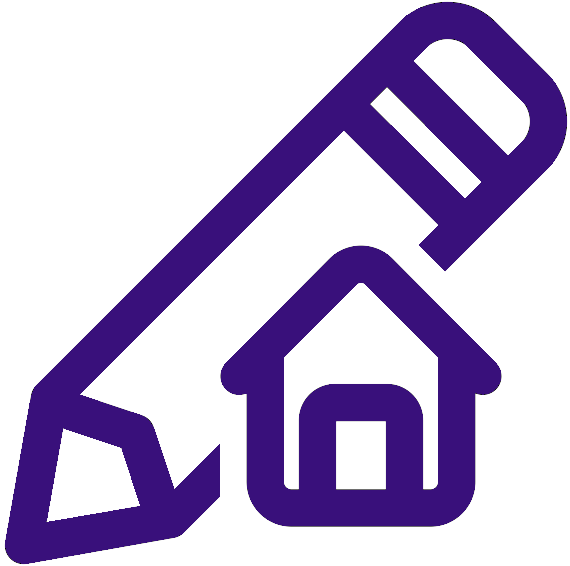
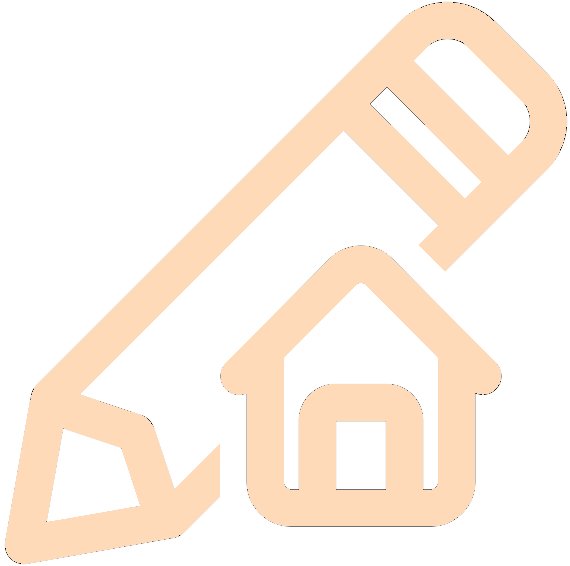
colours changed

diff --git a/style.css b/style.css
@@ -14,7 +14,7 @@ body {
     color: rgb(255, 255, 255);
 }
 
-/*MAIN Page*/
+/*INDEX Page*/
     .MainContainer {
         
     }
@@ -118,7 +118,7 @@ body {
             flex-direction: column;
             top: 0;
             height: 13rem;
-            background: rgba(165, 119, 89, 0.977);
+            background: rgba(74, 74, 74, 0.922);
             box-shadow: 0 1em 1em rgba(30, 30, 30, 0.9);
             z-index: 1;
         }
@@ -143,7 +143,8 @@ body {
                     font-size: 1rem;
                     font-weight: 900;
                     max-width: 210px;
-                    color: rgb(57, 16, 123);
+                    color: peachpuff;
+                    
                 }
                 .NavLeftTitleTwo {
                     display: flex;
@@ -180,18 +181,19 @@ body {
                 right: 0;
                 bottom: 0;
                 left: 0;
-                height: calc(100vh - 16.5rem);
-                background: rgba(165, 120, 89, 0.9);
-                padding: 1rem 0;
+                height: calc(100vh - 159px);
+                background: rgba(107, 107, 107, 0.909);
+                padding: 1rem 0 0 0;
+                margin: 0;
                 overflow-y: auto;
             }
-            @media (min-width: 400px) { .NavRight { margin-top: -4rem;} }
+            @media (min-width: 400px) { .NavRight { margin-top: -4.1rem;} }
             @media (min-width: 768px) { .NavRight { display: block; margin-top: -11rem; margin-right: 2rem; height: initial; padding: 0; bottom: initial; left: initial; overflow-y: initial; background: transparent;} }
             
             .NavRight.Active { display: block; }
                 .NavRightList {
                     display: block;
-                    padding: 0;
+                    padding: 0 0.5em;
                     margin: 0;
                 }
                 @media (min-width: 768px) { .NavRightList { display: flex; justify-content: flex-end; flex-wrap: wrap; max-width: 400px;} }
@@ -211,21 +213,22 @@ body {
                             color: black;
                             width: fit-content;
                             border-radius: 20px;
-                            box-shadow: rgba(3, 3, 3, 0.25) 0px 50px 100px -20px, rgba(0, 0, 0, 0.3) 0px 30px 60px -30px, rgba(33, 10, 58, 0.35) 0px -2px 6px 0px inset;
+                            box-shadow: rgba(60, 64, 67, 0.3) 0px 1px 2px 0px, rgba(255, 218, 185, 0.40) 0px 2px 6px 2px;
                         }
-                        .NavRightListItemLink:hover, .NavRightListItemLink:active, .NavRightListItemLink:focus {
-                            color: rgb(85, 0, 147);
+                        .NavRightListItemLink:hover, .NavRightListItemLink:focus {
+                            color: rgb(255, 218, 185);
+                            background: rgba(76, 76, 76, 0.171); 
                         }
                         .NavRightSubList {
                             display: block;
                             padding: 0;
                             margin: 0 0 2em;
                         }
-                        @media (min-width: 768px) { .NavRightSubList { display: none; }}      
+                        @media (min-width: 768px) { .NavRightSubList { display: none; position: absolute; z-index: 2; width: 10rem; background: rgba(98, 98, 98, 0.842);}}      
                         .NavRightSubList.active {
                             display: block;
                             border-radius: 5px;
-                            background: rgba(165, 120, 89, 0.9);
+                            margin-left: 0.5em;
                             box-shadow: rgba(60, 64, 67, 0.3) 1px 1px 2px 0px, rgba(60, 64, 67, 0.15) 1px 2px 6px 2px;
                         }    
                             .NavRightSubListItem {
@@ -242,17 +245,17 @@ body {
                                     border-bottom: 1px solid #00000017;
                                 }
                                 .NavRightSubListItemLink:hover {
-                                    color:  rgb(85, 0, 147);
-                                    background: rgba(255, 255, 255, 0.098); 
+                                    color:  peachpuff;
+                                    background: rgba(76, 76, 76, 0.315); 
                                 }
 
     .MaterialsMain {
         display: block;
-        background: black url(images/materials-bg.jpg) center center no-repeat;
+        background: black url(images/problems-bg.jpg) center center no-repeat;
         background-size: cover;
         height: 100%;
         width: 100%;
-        opacity: 0.8;
+        opacity: 0.9;
         position: absolute;
         top: 0;
         bottom: 0;
@@ -270,7 +273,7 @@ body {
             left: 50%;
             transform: translate(-50%, -50%);
             border-radius: 20px;
-            box-shadow: rgba(0, 0, 0, 0.56) 0px 22px 70px 4px;
+            box-shadow: rgba(0, 0, 0, 0.17) 0px -23px 25px 0px inset, rgba(0, 0, 0, 0.15) 0px -36px 30px 0px inset, rgba(0, 0, 0, 0.1) 0px -79px 40px 0px inset, rgba(0, 0, 0, 0.06) 0px 2px 1px, rgba(0, 0, 0, 0.09) 0px 4px 2px, rgba(0, 0, 0, 0.09) 0px 8px 4px, rgba(0, 0, 0, 0.09) 0px 16px 8px, rgba(0, 0, 0, 0.09) 0px 32px 16px;
         }
 
     .MaterialsFooter {
@@ -280,6 +283,7 @@ body {
             
         }
 
+/* PROBLEMS Page */
+
+
 /* LECTURES Page */
-
-
